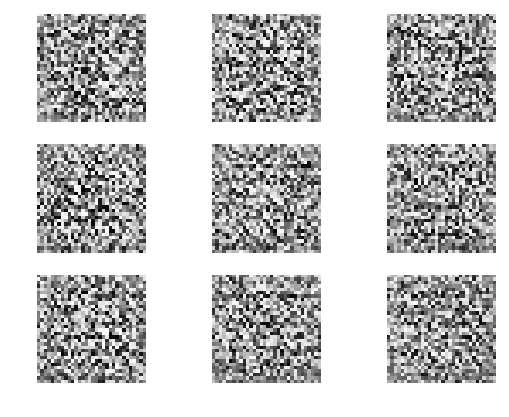
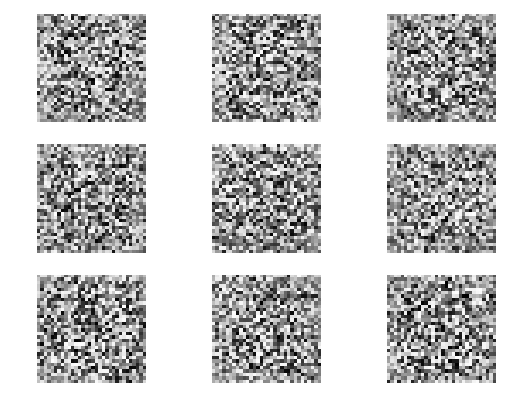
kinda working

diff --git a/projects/devanagari/DCGAN.py b/projects/devanagari/DCGAN.py
@@ -35,7 +35,7 @@ def generator(Z, keep_prob):
     with tf.variable_scope('gen', reuse=tf.AUTO_REUSE):
 
         with slim.arg_scope([slim.fully_connected],
-            weights_initializer=tf.contrib.layers.variance_scaling_initializer(uniform=False),
+            weights_initializer=tf.contrib.layers.xavier_initializer(),
              weights_regularizer=slim.l2_regularizer(.05)):
 
              net = slim.fully_connected(Z, 7*7*128, activation_fn=None, scope='fc1')
@@ -68,11 +68,11 @@ def discriminator(X):
         tf.summary.image('input to disc', net, 5)
 
         with slim.arg_scope([slim.conv2d], padding='SAME', stride=2,
-            weights_initializer=tf.contrib.layers.variance_scaling_initializer(uniform=False),
+            weights_initializer=tf.contrib.layers.xavier_initializer(),
              weights_regularizer=slim.l2_regularizer(.05)):
 
             with slim.arg_scope([slim.fully_connected],
-                weights_initializer=tf.contrib.layers.variance_scaling_initializer(uniform=False),
+                weights_initializer=tf.contrib.layers.xavier_initializer(),
                  weights_regularizer=slim.l2_regularizer(.05)):
 
                 print('discriminator shapes')
@@ -80,14 +80,14 @@ def discriminator(X):
                 net = slim.conv2d(net, 64, [5,5], scope='conv1')
                 print(net.shape)
                 # net = slim.batch_norm(net)
-                net = tf.nn.leaky_relu(net)
+                net = tf.nn.tanh(net)
                 net = slim.avg_pool2d(net, [2,2], stride=1, scope='pool1')
                 print(net.shape)
 
                 net = slim.conv2d(net, 128, [5,5], scope='conv2')
                 print(net.shape)
                 # net = slim.batch_norm(net)
-                net = tf.nn.leaky_relu(net)
+                net = tf.nn.tanh(net)
                 net = slim.avg_pool2d(net, [2,2], stride=1, scope='pool2')
                 print(net.shape)
 
@@ -132,15 +132,15 @@ def train(continue_training=False):
     with tf.name_scope('d_loss_real'):
         D_loss_real = tf.reduce_mean(tf.nn.sigmoid_cross_entropy_with_logits(
             logits=d_logit_real,
-            # labels=tf.random_uniform([BATCH_SIZE, 1], minval=0.7, maxval=1.3)
-            labels=tf.random_normal([BATCH_SIZE, 1], mean=1.0, stddev=0.05)
+            labels=tf.random_uniform([BATCH_SIZE, 1], minval=0.7, maxval=1.3)
+            # labels=tf.random_normal([BATCH_SIZE, 1], mean=1.0, stddev=0.05)
         ))
 
     with tf.name_scope('d_loss_fake'):
         D_loss_fake = tf.reduce_mean(tf.nn.sigmoid_cross_entropy_with_logits(
             logits=d_logit_fake,
-            labels = tf.random_normal([BATCH_SIZE, 1], mean=0.0, stddev=0.05)
-            # labels=tf.random_uniform([BATCH_SIZE, 1], minval=0.0, maxval=0.3)
+            # labels = tf.random_normal([BATCH_SIZE, 1], mean=0.0, stddev=0.05)
+            labels=tf.random_uniform([BATCH_SIZE, 1], minval=0.0, maxval=0.3)
         ))
 
     with tf.name_scope('d_loss'):
@@ -149,13 +149,13 @@ def train(continue_training=False):
     with tf.name_scope('g_loss'):
         G_loss = tf.reduce_mean(tf.nn.sigmoid_cross_entropy_with_logits(
             logits=d_logit_fake,
-            labels=tf.random_normal([BATCH_SIZE, 1], mean=1.0, stddev=0.05)
-            # labels=tf.random_uniform([BATCH_SIZE, 1], minval=0.7, maxval=1.3)
+            # labels=tf.random_normal([BATCH_SIZE, 1], mean=1.0, stddev=0.05)
+            labels=tf.random_uniform([BATCH_SIZE, 1], minval=0.7, maxval=1.3)
         ))
 
 
-    tf.summary.scalar("g_loss", G_loss)
-    tf.summary.scalar('d_loss', D_loss)
+    tf.summary.scalar("1 Generator Loss", G_loss)
+    tf.summary.scalar('2 Discriminator Loss', D_loss)
     tf.summary.scalar('d_loss_fake', D_loss_fake)
     tf.summary.scalar('d_loss_real', D_loss_real)
 
@@ -258,4 +258,4 @@ def gen_images(num):
 
 
 # gen_images(50)
-train(continue_training=False)
+train(continue_training=True)
